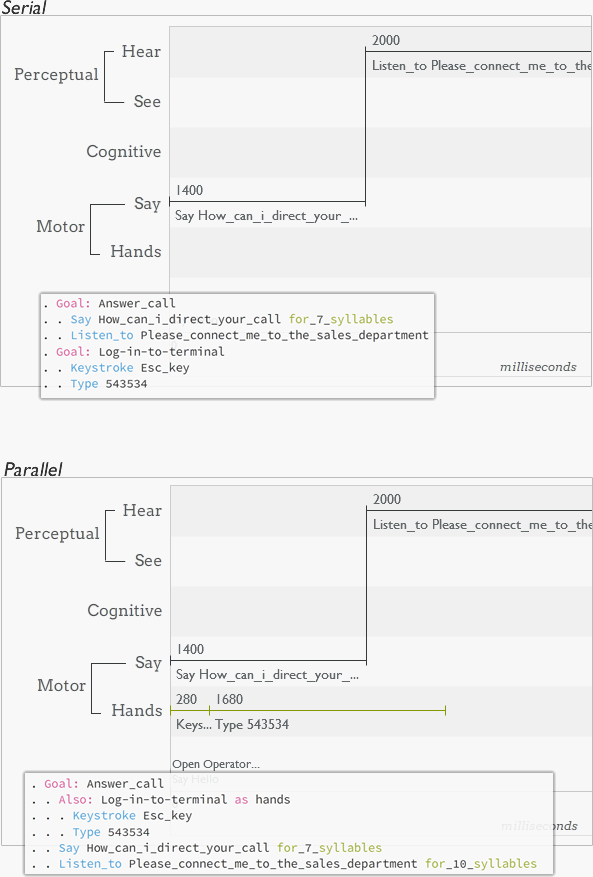
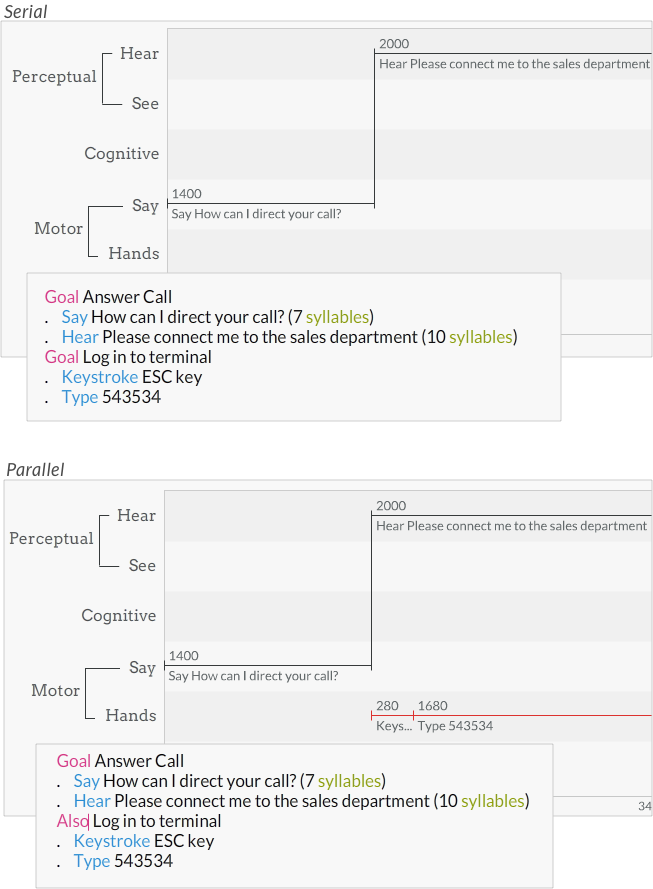
Magic Models v3.0 release
Updates throughout the website for the 3.0 release of Cogulator

diff --git a/primer.html b/primer.html
@@ -161,12 +161,15 @@
                             <li><a href="#SAVING_MODELS" class="nav_menu">SAVING</a> </li>
                             <li><a href="#MODEL_STATUS" class="nav_menu">STATUS</a> </li>
                             <li><a href="#MANAGEMENT" class="nav_menu">MANAGEMENT</a> </li>
+							<li><a href="#MAGIC_MODELS" class="nav_menu">MAGIC MODELS</a> </li>
                             <li><a href="#OPERATORS_CHI" class="nav_menu">OPERATORS CHI</a> </li>
+							<li><a href="#METHODS_CHI" class="nav_menu">METHODS CHI</a> </li>
                             <li><a href="#ERRORS_CHI" class="nav_menu">ERRORS CHI</a> </li>
                             <li><a href="#GANTT_CHART" class="nav_menu">GANTT CHART</a> </li>
                             <li><a href="#MULTITASKING" class="nav_menu">MULTITASK</a> </li>
                             <li><a href="#WM_LOAD" class="nav_menu">WM LOAD</a> </li>
                             <li><a href="#WORKLOAD" class="nav_menu">WORKLOAD</a> </li>
+							<li><a href="#SELECTION_RULES" class="nav_menu">SELECTION RULES</a> </li>
                             <li><a href="#A_REPRIEVE" class="nav_menu">A REPRIEVE</a> </li>
                         </ul>
                     </div>
@@ -181,8 +184,8 @@
                     <div id="content">
                         <span class="anchor" id="PREFACE"></span>
                         <h3>Preface</h3>
-                        <p>Cogulator is a simple human performance modeling tool for estimating task times, working memory load, and mental workload. It's designed to be approachable for new users and quick for experienced ones. In short, we have tried to create a tightly focused application for building GOMS models by applying basic human factors to a basic human factors tool.</p>
-                        <br
+                        <p>Cogulator is a simple human performance modeling tool for estimating task times, working memory load, and mental workload. It's designed to be approachable for new users and quick for experienced ones. In short, we have tried to create a tightly focused application for building GOMS models by applying basic human factors to a basic human factors tool. If you're not familiar with human performance models generally, or GOMS specifically, the <a href="#MAGIC_MODELS">magic models</a> feature is probably a good place to start <a href ="https://www.youtube.com/watch?v=8hwXN5RI710">(video)</a>, as it'll automatically build models for you.</p>
+                        <br>
 
                         <span class="anchor" id="DESIGN"></span>
                         <h3>Design</h3>
@@ -235,7 +238,7 @@
 
                         <span class="anchor" id="OPERATORS"></span>
                         <h3>Operators</h3>
-                        <p>Cogulator comes with twenty-one operators pre-installed, to which you can add more. Operators have three components: the operator name, an operator label, an operator modifier. The name is the operator itself (e.g., Point for pointing a mouse or Look for looking at something on the screen). The label, which describes how the operator is being used, is typically optional (Type, Listen, and Say require a label in order to determine how long the step should take). So, if I wanted to indicate that a save button is what is being pointed to in a model, I could enter:</p>
+                        <p>Cogulator comes with twenty-nine operators pre-installed, to which you can add more. Operators have three components: the operator name, an operator label, an operator modifier. The name is the operator itself (e.g., Point for pointing a mouse or Look for looking at something on the screen). The label, which describes how the operator is being used, is typically optional (Type, Listen, and Say require a label in order to determine how long the step should take). So, if I wanted to indicate that a save button is what is being pointed to in a model, I could enter:</p>
                         <blockquote><code>
                         . <span style="color:#268BD2">Point</span> to Save Button
                         </code></blockquote>        
@@ -295,13 +298,27 @@
                         <p>It's often nice to be able to quickly open other models to borrow commonly used methods. As such, Cogulator takes a slightly different approach to file management. Rather than the traditional File &gt; Open process, all existing models are listed along the left side of the interface (a la <a href="http://brackets.io/">Brackets</a>) for easy access to other models. The currently open model is noted with a small arrow indicator. When you first install Cogulator, a default set of models will be included in the Examples collection.</p>
                         <p>To open a model, find it in the list and click it. Models can be marked for deletion by hovering over the model name and then clicking the “x” that appears to the far left. At this point the model has not actually been deleted and you can undo this action by hovering over the name again and click the “u” button (located where the “x” was). Any models marked for deletion will be moved to the trash when the application is closed.</p>
                         <p><center><img src="images/existing-models.png"  alt="Existing models" class ="u-max-full-width"/></center></p>
+					
+					    <span class="anchor" id="MAGIC_MODELS"></span>              
+                        <h3>Magic Models</h3>
+                        <p>Most interface designers don't have any real experience with GOMS. Even if you have some experience, you might not be entirely confident on how string operators together to get a reasonable task model. The Magic Models feature is our first attempt to address this problem, making it possible to build a model in Cogulator without knowing an operator from a selection rule. With magic models, you demonstrate to Cogulator how a task is completed on a desktop/laptop computer or touchscreen device (e.g., iPhone). Cogulator then automatically generates the GOMS for you.</p>
+						<p>To get started with magic models, press the <img src="images/magic_wand.png"  alt="Magic Wand Icon"/> in the menu near the top of the interface. That'll bring up the magic models window. You can switch between desktop and touchscreen phone interfaces with the button at the bottom of the window. In the desktop, you can click on the grid to demonstrate point and click, drag the bar on the right side to demonstrate scrolling, or type to demonstrate, well, typing. Each mouse action is marked and labeled on the grid. You'll see the automatically generate code in the preview window next to the desktop. </p>
+						<p>With the touchscreen phone option, you can demonstrate touching the screen, tapping a series of things on the screen (as when typing using the touch keyboard), swiping up or down (click the grid and drag it for swipe), pressing the home button, and speech rec.  For speech rec, press and hold the home button. After about a second, a blue window will pop up and guide you through demonstrating the rest of the action. That will include typing in the speech rec command as well as any response from the phone (e.g., "Call John". "OK, dialing John").  </p> 
+                        <p><center><img src="images/magic_models.png"  alt="magic models" class ="u-max-full-width"/></center></p>
 
                         <span class="anchor" id="OPERATORS_CHI"></span>                
                         <h3>Operators Interface</h3>
-                        <p>Even those familiar with GOMS may have a difficult time remembering all the operators available and their specific formatting requirements. In order to help, we’ve provided an Operators sidebar in the tab menu on the left side of the interface. Influenced by Bret Victor’s <a href="http://worrydream.com/LearnableProgramming/">“dump the parts bucket on the floor”</a> strategy, the Operators sidebar lists all the operators, grouped by cognitive, perceptual, and motor resources. Hovering over an operator in the sidebar will temporarily insert it into the text editor at the cursor location. If the operator is not clicked, removing the cursor from the operator will remove the inserted text from the editor. Otherwise it will remain.</p>
+                        <p>Even those familiar with GOMS may have a difficult time remembering all the operators available and their specific formatting requirements. In order to help, we’ve provided an Operators sidebar in the tab menu on the left side of the interface. Influenced by Bret Victor’s <a href="http://worrydream.com/LearnableProgramming/">“dump the parts bucket on the floor”</a> strategy, the Operators (O's) sidebar lists all the operators, grouped by cognitive, perceptual, and motor resources. Hovering over an operator in the sidebar will temporarily insert it into the text editor at the cursor location. If the operator is not clicked, removing the cursor from the operator will remove the inserted text from the editor. Otherwise it will remain.</p>
                         <p><center><img src="images/insert-operator.png"  alt="Insert Operator" class ="u-max-full-width"/></center></p>
                         <br>
 
+					    <span class="anchor" id="METHODS_CHI"></span>                
+                        <h3>Methods Interface</h3>
+                        <p>The Methods Interface (M's in the tab bar) works just like the Operators interface.  However, rather than inserting a single operator, an entire method is inserted. The Methods Interface comes with several common methods like point and click preinstalled.  You can add custom methods by highlighting the method you'd like to save and then pressing the "+ method" button, as shown in the image below. </p>
+                        <p><center><img src="images/add_method.png"  alt="Add Method" class ="u-max-full-width"/></center></p>
+						<p>Preinstalled and custom methods are saved to your computer's document directory inside the cogulator/methods folder.</p>
+                        <br>
+					
                         <span class="anchor" id="ERRORS_CHI"></span>
                         <h3>Errors & Tips Interface</h3>
                         <p>Inevitably you’ll make some errors as you begin working with the CMN-GOMS syntax. Cogulator has some initial, rudimentary error color-coding in place to help you along the way. When an error is detected, the text containing the error is colored red. In the example below, the operator has been misspelled and cannot be interpreted. </p>  
@@ -333,7 +350,7 @@
                         . <span style="color:#D33682">Also:</span> Point and Click
                         </code></blockquote>
                         <p>Adding "as hands" to the end of the "Also:" line would ensure that multiple methods are on this same thread. You can think of a thread as adding a new lane to a highway. Everything that has the same label after the "as" will be in the same lane and therefore will happen serially. Operators in other threads can occur in parallel to the new thread. As with operator labels, the thread label is user-defined. </p>
-                        <p>Parallel execution is visualized in the Gantt chart. An example of parallel and serial execution of the same tasks is depicted in the image below. In the example, an imagined telephone operator needs to log into a workstation just as they receive their first call. In the serial example (upper panel), the call is received and then the operator logs in. These tasks happen in parallel in the lower panel. Note that new threads are randomly assigned their own color (green in this example) to distinguish them from the base thread.</p>
+                        <p>Parallel execution is visualized in the Gantt chart. An example of parallel and serial execution of the same tasks is depicted in the image below. In the example, an imagined telephone operator needs to log into a workstation just as they receive their first call. In the serial example (upper panel), the call is received and then the operator logs in. These tasks happen in parallel in the lower panel. Note that new threads are randomly assigned their own color (orange in this example) to distinguish them from the base thread.</p>
                         <p><center><img src="images/multitasking.png" alt="Multitasking" class ="u-max-full-width"/></center></p>
                         <br>
 
@@ -381,7 +398,68 @@
 
                         <p>These estimates are based on some work on a series of simple experiments I conducted (see <a href="http://hfs.sagepub.com/content/57/7/1174">the Workload Curve</a>). Keep in mind, though based in research, both forgetting and mental workload estimates are experimental features.</p>
                         <br>
+					
+					    <span class="anchor" id="SELECTION_RULES"></span>                
+                        <h3>Selection Rules</h3>
+                        <p>Selection Rules are If/Then statements commonly used in GOMS. Many people won't ever need selection rules, but for those who do, it's a handy feature (tip o' the hat to the folks at NC State who built this feature). To use selection rules, you'll need: </p>
+					 	<blockquote>
+							<code>
+							<span style="color:#D33682">CreateState</span><br>
+							<span style="color:#D33682">SetState</span><br>
+							<span style="color:#D33682">If</span><br>
+							<span style="color:#D33682">EndIf</span><br>
+							<span style="color:#D33682">Goto</span><br>
+							</code>
+						</blockquote>
+						<p>You'll always start with CreateState, which allows you to name an object and give that object a state. For example:</p>
+						<blockquote>
+							<code>
+							<span style="color:#D33682">CreateState</span> theLights areOff <br>
+							</code>
+						</blockquote>
+						<p>In this case, my object is "theLights" and the state I've assigned is "areOff". The object and state can be anything you want them to be, so long as each are one word without spaces.</p>
+						<p> Once I have a state, I can use it in a selection rule like so:</p>
+						<blockquote>
+							<code>
+							<span style="color:#D33682">CreateState</span> theLights areOff <br>
+							<span style="color:#D33682">If</span> theLights areOff <br>
+							. <span style="color:#268BD2">Hands</span> to the light switch <br>
+							. <span style="color:#268BD2">Turn</span> the light switch on <br>
+							<span style="color:#D33682">EndIf</span><br>
+							</code>
+						</blockquote>
+						<p>Basically, if the lights are off, then do everything between the If and EndIf. Once I've modeled the user turning the lights on, I likely want to set the state to reflect that, which I can do with SetState:</p>
+						<blockquote>
+							<code>
+							<span style="color:#D33682">CreateState</span> theLights areOff <br>
+							<span style="color:#D33682">If</span> theLights areOff <br>
+							. <span style="color:#268BD2">Hands</span> to the light switch <br>
+							. <span style="color:#268BD2">Turn</span> the light switch on <br>
+							. <strong><span style="color:#D33682">SetState</span> theLights areOn </strong><br>
+							<span style="color:#D33682">EndIf</span><br>
+							</code>
+						</blockquote>
+					
+						<p>We also have a Goto option. Goto does just what you think it would: it tells Cogulator to skip directly to a specific goal in the model. Here's an example:</p>
+						<blockquote>
+							<code>
+							<span style="color:#D33682">CreateState</span> theLights areOn <br>
+							<span style="color:#D33682">If</span> theLights areOn <br>
+							. <span style="color:#D33682">Goto Goal</span> Greeting <br>
+							<span style="color:#D33682">EndIf</span><br>
+							<br>
+							<span style="color:#D33682">Goal</span> Turn the Lights On <br>
+							. <span style="color:#268BD2">Hands</span> to the light switch <br>
+							. <span style="color:#268BD2">Turn</span> the light switch on <br>
+							. <span style="color:#D33682">SetState</span> theLights areOn <br>
+							<br>
+							<span style="color:#D33682">Goal</span> Greeting <br>
+							. <span style="color:#268BD2">Say</span> I see you <br>
+							</code>
+						</blockquote>
 
+						<p>In this model, we start by testing to see if "theLights" "areOn".  Because they are, we jump directly to the goal Greeting (i.e., Goto Goal Greeting).  </p>
+					
                         <span class="anchor" id="A_REPRIEVE"></span>
                         <h3>A Reprieve</h3>
                         <p>That covers Cogulator at a high level. If this all seems a bit complex, remember that you can model at a lot of different levels of fidelity in Cogulator. Starting with some of the simpler modeling methods like KLM is a great way to get comfortable with GOMS and Cogulator. Take advantage of the example models that come installed with Cogulator.  You may also find the <a href="screencast.html">primer video</a> helpful. It's brief and just covers the basics.</p>

diff --git a/index.html b/index.html
@@ -87,7 +87,7 @@
                                         1. Install <a href="https://get.adobe.com/air/">Adobe AIR</a>
                                         </code>
                                         <code>
-                                        2. Install <a href="https://github.com/Cogulator/Cogulator/releases/download/v2.6/cogulator.air">Cogulator</a>
+                                        2. Install <a href="https://github.com/Cogulator/Cogulator/releases/download/v3.0/cogulator.air">Cogulator</a>
                                         <br>
                                     </code>
                             <br>
@@ -108,10 +108,7 @@
                         <div class="one-half column">
                             <h4>NEWS</h4>
                             <p>
-                               . Researchers at NC State are working to expand Cogulator to include Selection Rules... more on this soon <br>
-                               . v2.6 (3/3/2017) includes some error messages if the file can't be opened or saved <br>
-                               . v2.5.5 Enhanced working memory export now includes chunk names and probability of recall <br>
-                               · New coat of paint on the site<br>
+                               . v3.0 (8/4/2017) has been released. It includes a bunch of new features like: Magic Models, Selection Rules (thanks, NC State), a Wait operator, Methods sidebar (just like the operators side bar). Primer has been updated accordingly, and there are demo videos for both <a href="https://www.youtube.com/watch?v=8hwXN5RI710">magic models</a> and <a href="https://www.youtube.com/watch?v=_znPofcCG6c">selection rules.</a><br>
                                · Demostration videos and examples models added to <a href="resources.html">resources</a><br>
                                · <a href="http://www.hfes.org/web/HFESBulletin/june2014Main.html">Slides</a> from 2016 HFES workshop available<br>
                                 · <a href="primer.html#WM_LOAD">Chunk naming</a> added for modeling working memory and <a href="primer.html#WORKLOAD">mental workload</a> based on the <a href ="https://www.researchgate.net/publication/279513398_The_Workload_Curve">workload curve</a><br>

diff --git a/resources.html b/resources.html
@@ -100,6 +100,18 @@
                                 <li><a href="resources/Mental-Math-CN.goms">Mental Math CN.goms</a></li>
                             </ul>
                         </div>
+                        <div class="four columns">
+                            <style>.embed-container { position: relative; padding-bottom: 56.25%; height: 0; overflow: hidden; max-width: 100%; } .embed-container iframe, .embed-container object, .embed-container embed { position: absolute; top: 0; left: 0; width: 100%; height: 100%; }</style><div class='embed-container'><iframe src='https://www.youtube.com/embed//8hwXN5RI710' frameborder='0' allowfullscreen></iframe></div>
+                            Magic Models
+                        </div>
+                        <div class="four columns">
+                            <style>.embed-container { position: relative; padding-bottom: 56.25%; height: 0; overflow: hidden; max-width: 100%; } .embed-container iframe, .embed-container object, .embed-container embed { position: absolute; top: 0; left: 0; width: 100%; height: 100%; }</style><div class='embed-container'><iframe src='https://www.youtube.com/embed//_znPofcCG6c' frameborder='0' allowfullscreen></iframe></div>
+                            <div style="line-height:1.5em; font-size:13px">The following files are referenced in the video. Download and place in Documents/cogulator/models to open.</div>
+                            <ul>
+                                <li><a href="resources/SelectionRules.goms">SelectionRules.goms</a></li>
+                                <li><a href="resources/Goto.goms">Goto.goms</a></li>
+                            </ul>
+                        </div>
                     </div>
                     <div class="row">
                         <br>

diff --git a/download.html b/download.html
@@ -102,7 +102,7 @@
                                 <br>
                                 <h3>2. Download and Install Cogulator</h3>
                                 <div class="download_button">
-                                    <a href="https://github.com/Cogulator/Cogulator/releases/download/v2.6/cogulator.air"><img src="images/download-cogulator.png"></a>
+                                    <a href="https://github.com/Cogulator/Cogulator/releases/download/v3.0/cogulator.air"><img src="images/download-cogulator.png"></a>
                                 </div>
                             </center>
                         </div>
